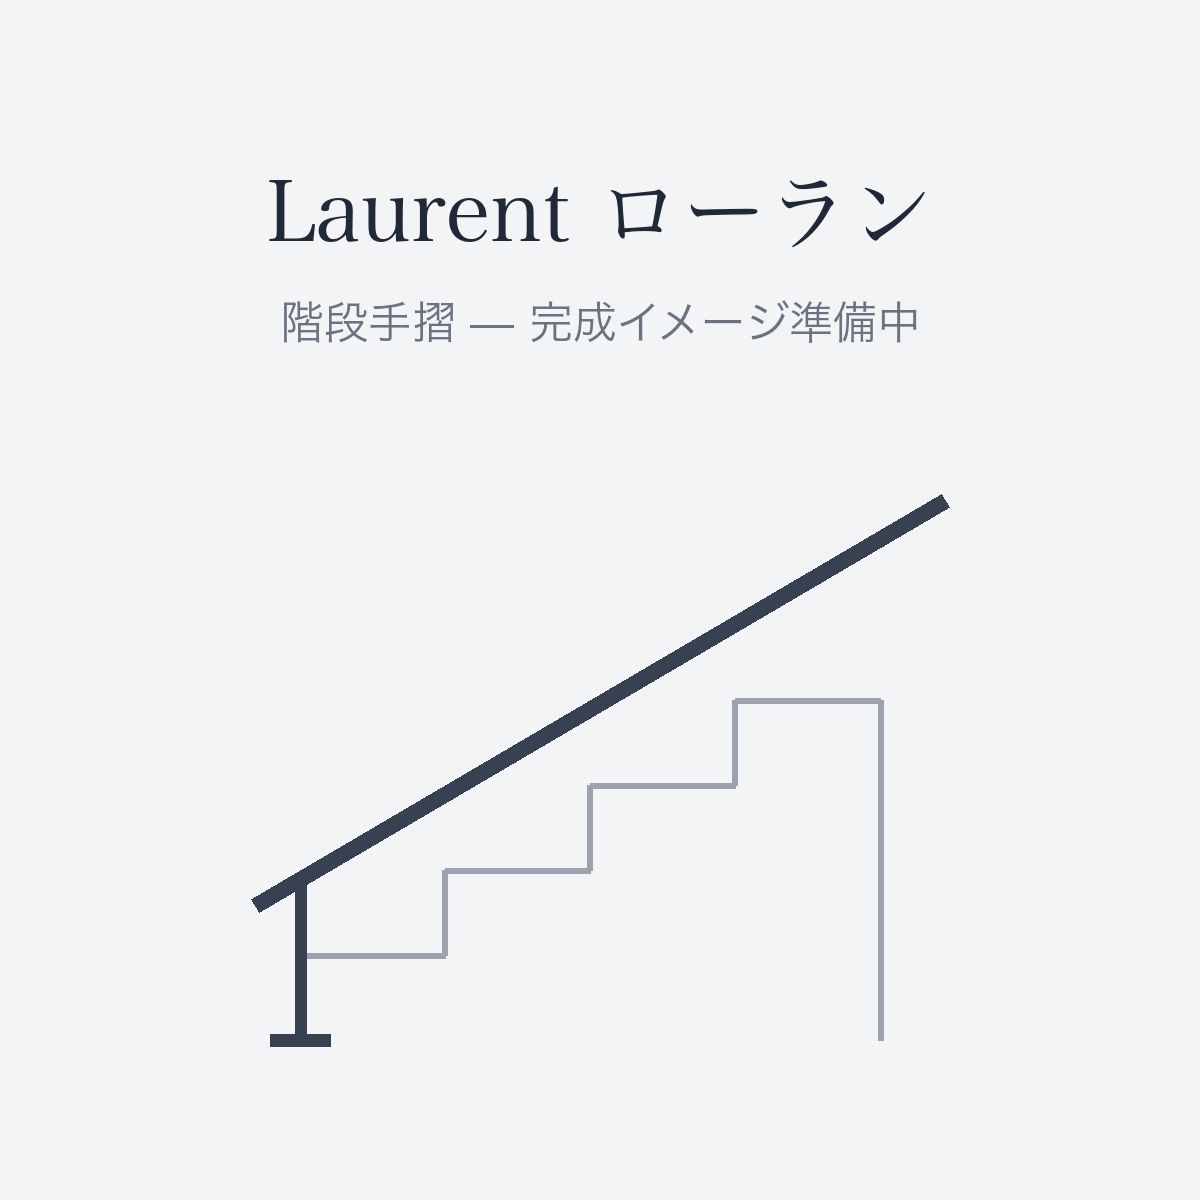
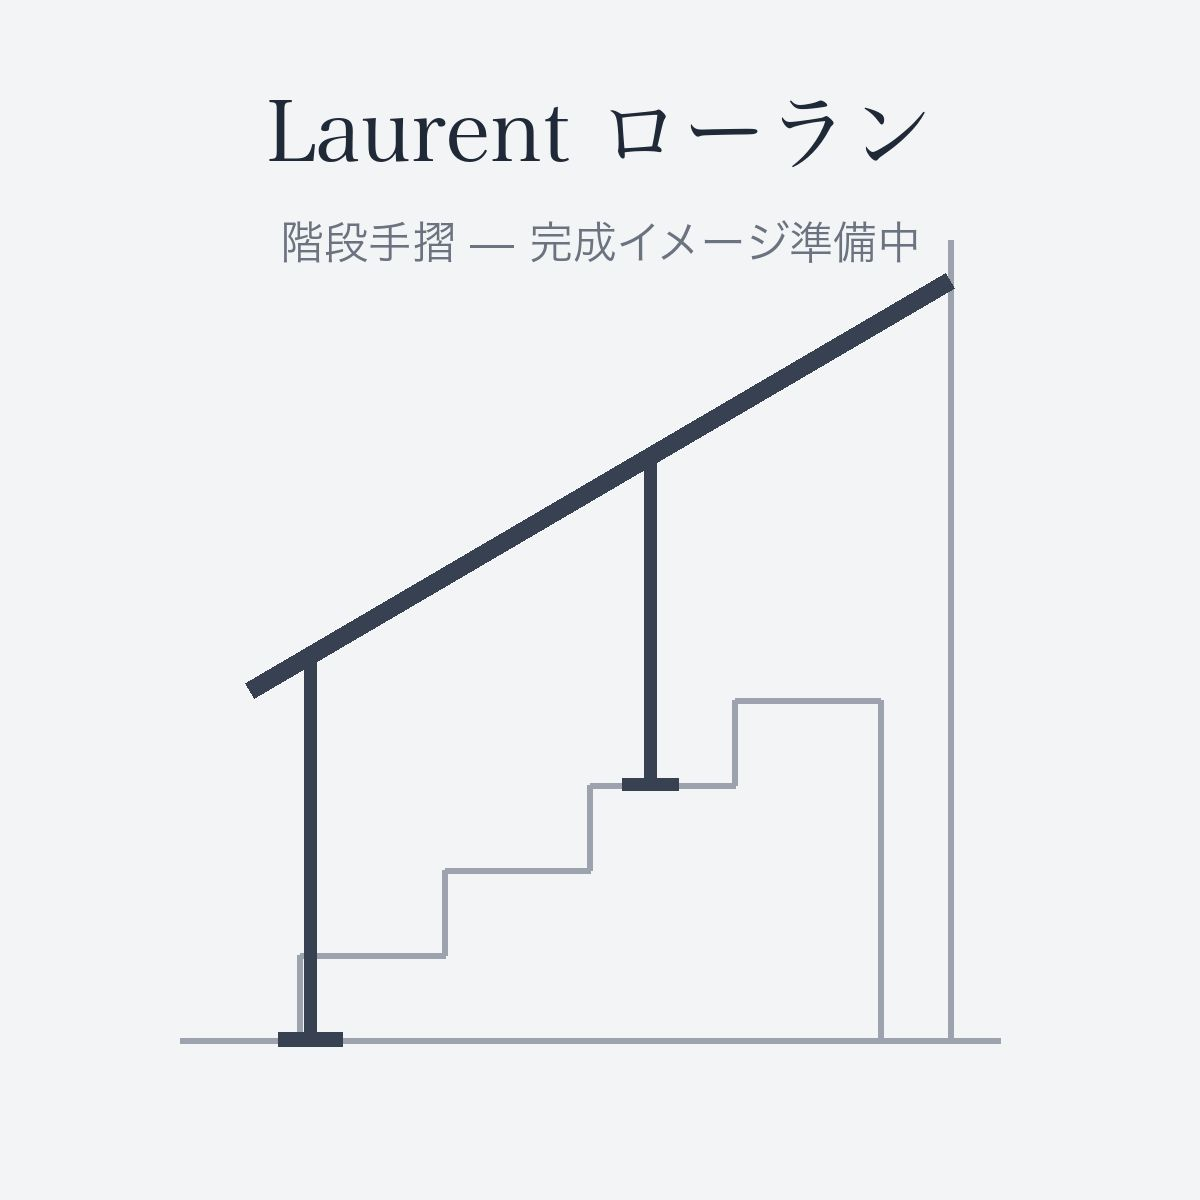
fix(laurent): 手すり高さ（段鼻から標準800mm）を反映・寸法図を実際の手すり形状に
- 寸法図: 笠木を段鼻から800mm相当の実高さで描画（縮尺: 蹴上げ200mm=40px）・中間柱追加・蹴込みは楽天参考の「拡大」インセット方式に変更
- 入力に「手すり高さ（mm・標準800）」を新設（600〜1,100・価格影響なし・注文仕様として記録）
- 仕様表に手すり高さ行を追加・プレースホルダー画像も実際の高さ感に修正

diff --git a/v0-design/components/stair-product-page.tsx b/v0-design/components/stair-product-page.tsx
@@ -25,6 +25,7 @@ import {
   clampTread,
   clampKekomi,
   clampLastTread,
+  clampRailHeight,
   type CrossbarMaterial,
   type StairColor,
 } from "@/lib/products/stair-pricing"
@@ -48,6 +49,7 @@ const SPECS = [
   { label: "仕上げ", value: "錆止め吹付塗装 + 2液型ウレタン塗装" },
   { label: "カラー", value: "マットブラック（標準）／マットホワイト（+15%）" },
   { label: "取付方式", value: "柱＝床固定・端部＝壁付け" },
+  { label: "手すり高さ", value: "標準800mm（段鼻から笠木上端まで・600〜1,100mmで変更可）" },
   { label: "横桟オプション", value: "0〜3本（6×25 フラットバー／13φ 丸鋼）" },
   { label: "対応段数", value: `${LAURENT.minSteps}〜${LAURENT.maxSteps}段（全長3.5mまで。超える場合は要問合せ）` },
 ]
@@ -67,70 +69,88 @@ const PRICE_GUIDE_STEPS = [3, 6, 10]
 
 /**
  * 入力寸法の位置を示す説明図（CAD 風・静的）。
- * 段鼻（ノーズ）のオーバーハングを実際の階段どおりに描き、
- * B踏み面=段鼻先端から次の蹴込み板まで / 蹴込み=段鼻下のへこみ を正しく示す
- * （2026-07-04 蠣﨑さん指摘・楽天同種商品の寸法図を参考）。
+ * - 笠木は段鼻から 800mm 相当の実際の手すり高さで描く（2026-07-04 蠣﨑さん指摘。
+ *   縮尺: 蹴上げ200mm=40px → 手すり高さ800mm=160px）
+ * - 蹴込みは楽天同種商品の寸法図にならい「拡大」インセットで説明する
  */
 function StairDimensionDiagram() {
   return (
-    <svg viewBox="0 0 560 335" role="img" aria-label="蹴上げ・踏み面・蹴込み・最終段の踏み面の説明図" className="w-full h-auto">
-      <rect x="0" y="0" width="560" height="335" fill="#ffffff" />
+    <svg viewBox="0 0 560 440" role="img" aria-label="蹴上げ・踏み面・蹴込み・最終段の踏み面・手すり高さの説明図" className="w-full h-auto">
+      <rect x="0" y="0" width="560" height="440" fill="#ffffff" />
       {/* 床・壁 */}
-      <line x1="20" y1="290" x2="540" y2="290" stroke="#9ca3af" strokeWidth="2" />
-      <line x1="470" y1="8" x2="470" y2="290" stroke="#9ca3af" strokeWidth="2" />
-      <text x="480" y="110" fontSize="13" fill="#6b7280">壁</text>
+      <line x1="15" y1="395" x2="545" y2="395" stroke="#9ca3af" strokeWidth="2" />
+      <line x1="460" y1="40" x2="460" y2="395" stroke="#9ca3af" strokeWidth="2" />
+      <text x="470" y="100" fontSize="13" fill="#6b7280">壁</text>
       {/* 階段（3段＋最上段の踏み面）— 段鼻が蹴込み分オーバーハングする実形状 */}
       <path
-        d="M 112 290 V 240 H 100 V 234 H 227 V 201 H 215 V 195 H 342 V 156 H 330 V 150 H 470 V 290 Z"
+        d="M 120 395 V 361 H 110 V 355 H 220 V 321 H 210 V 315 H 320 V 281 H 310 V 275 H 460 V 395 Z"
         fill="#f3f4f6"
         stroke="#374151"
         strokeWidth="2"
         strokeLinejoin="round"
       />
-      {/* 手摺（斜めレール・上端は壁付け）と柱（床固定） */}
-      <line x1="80" y1="168" x2="466" y2="18" stroke="#1f2937" strokeWidth="6" strokeLinecap="round" />
-      <line x1="95" y1="164" x2="95" y2="290" stroke="#1f2937" strokeWidth="5" />
-      <rect x="85" y="286" width="20" height="6" fill="#1f2937" />
-      <text x="14" y="196" fontSize="13" fill="#374151">柱</text>
-      <text x="14" y="212" fontSize="11" fill="#374151">（床固定）</text>
-      <text x="292" y="36" fontSize="13" fill="#374151">端部は壁付け</text>
-      {/* C 蹴上げ（1段の高さ）: 段の上面から次の段の上面まで */}
-      <line x1="196" y1="195" x2="196" y2="234" stroke="#b8860b" strokeWidth="1.5" />
-      <path d="M 196 195 l -4 8 h 8 Z" fill="#b8860b" />
-      <path d="M 196 234 l -4 -8 h 8 Z" fill="#b8860b" />
-      <line x1="150" y1="195" x2="215" y2="195" stroke="#b8860b" strokeWidth="0.75" strokeDasharray="3 3" />
-      <line x1="150" y1="234" x2="227" y2="234" stroke="#b8860b" strokeWidth="0.75" strokeDasharray="3 3" />
-      <text x="118" y="212" fontSize="14" fill="#92650a">C 蹴上げ</text>
-      <text x="112" y="228" fontSize="11" fill="#92650a">（1段の高さ）</text>
+      {/* 笠木（段鼻から手すり高さ分上を段鼻ラインに平行に走り、上端は壁付け） */}
+      <line x1="60" y1="215" x2="455" y2="57" stroke="#1f2937" strokeWidth="7" strokeLinecap="round" />
+      {/* 柱（床固定）と中間柱（段板固定） */}
+      <line x1="75" y1="209" x2="75" y2="395" stroke="#1f2937" strokeWidth="5" />
+      <rect x="65" y="391" width="20" height="7" fill="#1f2937" />
+      <line x1="275" y1="131" x2="275" y2="315" stroke="#1f2937" strokeWidth="5" />
+      <rect x="265" y="311" width="20" height="6" fill="#1f2937" />
+      <text x="40" y="300" fontSize="13" fill="#374151">柱</text>
+      <text x="14" y="318" fontSize="11" fill="#374151">（床固定）</text>
+      <text x="468" y="64" fontSize="13" fill="#374151">端部は壁付け</text>
+      {/* 手すり高さ: 段鼻から笠木上端まで（標準800mm） */}
+      <line x1="210" y1="315" x2="252" y2="315" stroke="#b8860b" strokeWidth="0.75" strokeDasharray="3 3" />
+      <line x1="240" y1="147" x2="240" y2="315" stroke="#b8860b" strokeWidth="1.5" />
+      <path d="M 240 147 l -4 9 h 8 Z" fill="#b8860b" />
+      <path d="M 240 315 l -4 -9 h 8 Z" fill="#b8860b" />
+      <text x="146" y="226" fontSize="14" fill="#92650a">手すり高さ</text>
+      <text x="100" y="244" fontSize="11" fill="#92650a">（段鼻から・標準800mm）</text>
       {/* B 踏み面: 段鼻の先端から次の蹴込み板（立ち上がり）まで */}
-      <line x1="215" y1="186" x2="342" y2="186" stroke="#b8860b" strokeWidth="1.5" />
-      <path d="M 215 186 l 8 -4 v 8 Z" fill="#b8860b" />
-      <path d="M 342 186 l -8 -4 v 8 Z" fill="#b8860b" />
-      <line x1="215" y1="181" x2="215" y2="195" stroke="#b8860b" strokeWidth="0.75" />
-      <line x1="342" y1="181" x2="342" y2="195" stroke="#b8860b" strokeWidth="0.75" />
-      <text x="248" y="179" fontSize="14" fill="#92650a">B 踏み面</text>
-      {/* 蹴込み: 段鼻の下のへこんでいる部分（段鼻先端 → 蹴込み板） */}
-      <line x1="215" y1="212" x2="227" y2="212" stroke="#b8860b" strokeWidth="1.5" />
-      <path d="M 215 212 l 5 -3 v 6 Z" fill="#b8860b" />
-      <path d="M 227 212 l -5 -3 v 6 Z" fill="#b8860b" />
-      <line x1="221" y1="215" x2="180" y2="262" stroke="#b8860b" strokeWidth="1" />
-      <text x="40" y="278" fontSize="14" fill="#92650a">蹴込み（段鼻の下のへこみ）</text>
+      <line x1="110" y1="345" x2="220" y2="345" stroke="#b8860b" strokeWidth="1.5" />
+      <path d="M 110 345 l 8 -4 v 8 Z" fill="#b8860b" />
+      <path d="M 220 345 l -8 -4 v 8 Z" fill="#b8860b" />
+      <line x1="110" y1="341" x2="110" y2="355" stroke="#b8860b" strokeWidth="0.75" />
+      <line x1="220" y1="341" x2="220" y2="355" stroke="#b8860b" strokeWidth="0.75" />
+      <text x="128" y="336" fontSize="14" fill="#92650a">B 踏み面</text>
+      {/* C 蹴上げ（1段の高さ）: 段の上面から次の段の上面まで */}
+      <line x1="300" y1="275" x2="300" y2="315" stroke="#b8860b" strokeWidth="1.5" />
+      <path d="M 300 275 l -4 8 h 8 Z" fill="#b8860b" />
+      <path d="M 300 315 l -4 -8 h 8 Z" fill="#b8860b" />
+      <line x1="300" y1="275" x2="314" y2="275" stroke="#b8860b" strokeWidth="0.75" strokeDasharray="3 3" />
+      <line x1="300" y1="315" x2="322" y2="315" stroke="#b8860b" strokeWidth="0.75" strokeDasharray="3 3" />
+      <text x="330" y="298" fontSize="14" fill="#92650a">C 蹴上げ</text>
+      <text x="330" y="314" fontSize="11" fill="#92650a">（1段の高さ）</text>
       {/* D 最終段の踏み面: 最上段の段鼻から壁まで */}
-      <line x1="330" y1="140" x2="470" y2="140" stroke="#b8860b" strokeWidth="1.5" />
-      <path d="M 330 140 l 8 -4 v 8 Z" fill="#b8860b" />
-      <path d="M 470 140 l -8 -4 v 8 Z" fill="#b8860b" />
-      <line x1="330" y1="136" x2="330" y2="150" stroke="#b8860b" strokeWidth="0.75" />
-      <text x="336" y="132" fontSize="14" fill="#92650a">D 最終段の踏み面（壁まで）</text>
+      <line x1="310" y1="263" x2="460" y2="263" stroke="#b8860b" strokeWidth="1.5" />
+      <path d="M 310 263 l 8 -4 v 8 Z" fill="#b8860b" />
+      <path d="M 460 263 l -8 -4 v 8 Z" fill="#b8860b" />
+      <line x1="310" y1="259" x2="310" y2="277" stroke="#b8860b" strokeWidth="0.75" />
+      <text x="288" y="254" fontSize="13" fill="#92650a">D 最終段の踏み面（壁まで）</text>
+      {/* 蹴込みの拡大インセット（段鼻の下のへこみ） */}
+      <circle cx="215" cy="318" r="16" fill="none" stroke="#b8860b" strokeWidth="1.2" strokeDasharray="4 3" />
+      <circle cx="100" cy="72" r="58" fill="none" stroke="#b8860b" strokeWidth="1.2" strokeDasharray="4 3" />
+      <text x="24" y="22" fontSize="13" fill="#92650a">拡大</text>
+      <line x1="52" y1="48" x2="158" y2="48" stroke="#374151" strokeWidth="3" />
+      <line x1="52" y1="48" x2="52" y2="64" stroke="#374151" strokeWidth="2" />
+      <line x1="52" y1="64" x2="86" y2="64" stroke="#374151" strokeWidth="2" />
+      <line x1="86" y1="64" x2="86" y2="116" stroke="#374151" strokeWidth="2" />
+      <line x1="52" y1="64" x2="52" y2="96" stroke="#b8860b" strokeWidth="0.75" strokeDasharray="3 3" />
+      <line x1="52" y1="90" x2="86" y2="90" stroke="#b8860b" strokeWidth="1.5" />
+      <path d="M 52 90 l 7 -4 v 8 Z" fill="#b8860b" />
+      <path d="M 86 90 l -7 -4 v 8 Z" fill="#b8860b" />
+      <text x="26" y="146" fontSize="12" fill="#92650a">蹴込み（段鼻の下のへこみ）</text>
+      {/* 手摺全長（笠木に平行・上側）— ラベルは水平＋引出線 */}
+      <line x1="85" y1="190" x2="450" y2="44" stroke="#b8860b" strokeWidth="1.5" strokeDasharray="6 4" />
+      <text x="196" y="28" fontSize="14" fill="#92650a">手摺全長（自動計算）</text>
+      <line x1="265" y1="34" x2="288" y2="104" stroke="#b8860b" strokeWidth="1" />
       {/* A 設置範囲の総幅 */}
-      <line x1="100" y1="308" x2="470" y2="308" stroke="#b8860b" strokeWidth="1.5" />
-      <path d="M 100 308 l 8 -4 v 8 Z" fill="#b8860b" />
-      <path d="M 470 308 l -8 -4 v 8 Z" fill="#b8860b" />
-      <line x1="100" y1="292" x2="100" y2="312" stroke="#b8860b" strokeWidth="0.75" />
-      <line x1="470" y1="292" x2="470" y2="312" stroke="#b8860b" strokeWidth="0.75" />
-      <text x="150" y="328" fontSize="13" fill="#92650a">A 設置範囲の総幅 ＝ (B−蹴込み)×(段数−1)＋D（自動計算）</text>
-      {/* 手摺全長 */}
-      <line x1="120" y1="180" x2="455" y2="50" stroke="#b8860b" strokeWidth="1.5" strokeDasharray="6 4" />
-      <text x="205" y="136" fontSize="14" fill="#92650a" transform="rotate(-21 205 136)">手摺全長（自動計算）</text>
+      <line x1="110" y1="416" x2="460" y2="416" stroke="#b8860b" strokeWidth="1.5" />
+      <path d="M 110 416 l 8 -4 v 8 Z" fill="#b8860b" />
+      <path d="M 460 416 l -8 -4 v 8 Z" fill="#b8860b" />
+      <line x1="110" y1="398" x2="110" y2="420" stroke="#b8860b" strokeWidth="0.75" />
+      <line x1="460" y1="398" x2="460" y2="420" stroke="#b8860b" strokeWidth="0.75" />
+      <text x="100" y="436" fontSize="12" fill="#92650a">A 設置範囲の総幅（自動計算）＝(B−蹴込み)×(段数−1)＋D</text>
     </svg>
   )
 }
@@ -142,6 +162,7 @@ export function StairProductPage() {
   const [treadInput, setTreadInput] = useState(String(LAURENT.defaults.treadMm))
   const [kekomiInput, setKekomiInput] = useState(String(LAURENT.defaults.kekomiMm))
   const [lastTreadInput, setLastTreadInput] = useState(String(LAURENT.defaults.lastTreadMm))
+  const [railHeightInput, setRailHeightInput] = useState(String(LAURENT.defaults.railHeightMm))
   // 段ごとの蹴上げ（個別調整用）。一括値の変更・段数変更で作り直す。
   const [riserInputs, setRiserInputs] = useState<string[]>(Array(4).fill(String(LAURENT.defaults.riserMm)))
 
@@ -161,6 +182,7 @@ export function StairProductPage() {
   const treadMm = clampTread(Number(treadInput))
   const kekomiMm = clampKekomi(Number(kekomiInput))
   const lastTreadMm = clampLastTread(Number(lastTreadInput))
+  const railHeightMm = clampRailHeight(Number(railHeightInput))
   const risersMm = riserInputs.map((s) => clampRiser(Number(s)))
 
   const handleStepsChange = (raw: number) => {
@@ -214,6 +236,7 @@ export function StairProductPage() {
     treadMm,
     kekomiMm,
     lastTreadMm,
+    railHeightMm,
     crossbarCount,
     crossbarMaterial,
     color,
@@ -494,6 +517,17 @@ export function StairProductPage() {
                         className={inputClass}
                       />
                       <p className="mt-1 text-[12px] text-muted-foreground">最上段の段鼻から壁までの寸法</p>
+                    </div>
+                    <div>
+                      <label className="mb-1 block text-[13px] text-muted-foreground">手すり高さ（mm・標準800）</label>
+                      <input
+                        type="number"
+                        value={railHeightInput}
+                        onChange={(e) => setRailHeightInput(e.target.value)}
+                        onBlur={() => setRailHeightInput(String(railHeightMm))}
+                        className={inputClass}
+                      />
+                      <p className="mt-1 text-[12px] text-muted-foreground">段鼻から笠木の上端まで（価格は変わりません）</p>
                     </div>
                   </div>
 

diff --git a/v0-design/lib/products/stair-pricing.ts b/v0-design/lib/products/stair-pricing.ts
@@ -41,12 +41,15 @@ export const LAURENT = {
   // 手摺の斜め全長がこれを超えたら自動見積もりを止めて「要問合せ」に切り替える
   // （2026-07-04 蠣﨑さん確定: 指示書の 4m 基準を配送実態に合わせ 3.5m に前倒し）。
   maxShipMm: 3500,
-  defaults: { riserMm: 200, treadMm: 240, kekomiMm: 20, lastTreadMm: 240 },
+  // 手すり高さ＝段鼻から笠木上端まで。標準 800mm（2026-07-04 蠣﨑さん指示）。
+  // 価格には影響しない製作仕様として注文に記録する。
+  defaults: { riserMm: 200, treadMm: 240, kekomiMm: 20, lastTreadMm: 240, railHeightMm: 800 },
   limits: {
     riser: { min: 50, max: 500 }, // 蹴上げ (mm)
     tread: { min: 100, max: 500 }, // 踏み面 (mm)
     kekomi: { min: 0, max: 100 }, // 蹴込み (mm)
     lastTread: { min: 0, max: 1500 }, // 最終段の踏み面＝壁までの寸法 (mm)
+    railHeight: { min: 600, max: 1100 }, // 手すり高さ (mm)
   },
 } as const
 
@@ -74,6 +77,11 @@ export function clampLastTread(n: number): number {
   const raw = Number(n)
   const v = Number.isFinite(raw) ? Math.round(raw) : LAURENT.defaults.lastTreadMm
   return Math.max(LAURENT.limits.lastTread.min, Math.min(LAURENT.limits.lastTread.max, v))
+}
+
+export function clampRailHeight(n: number): number {
+  const v = Math.round(Number(n) || LAURENT.defaults.railHeightMm)
+  return Math.max(LAURENT.limits.railHeight.min, Math.min(LAURENT.limits.railHeight.max, v))
 }
 
 /** 柱の合計本数（1段目を1本目と換算し 5 段ごとに1本）。3〜5段=1本, 6〜10段=2本, ... */
@@ -169,6 +177,7 @@ export interface StairOrderParsed {
   treadMm: number
   kekomiMm: number
   lastTreadMm: number
+  railHeightMm: number
   crossbarCount: number
   crossbarMaterial: CrossbarMaterial
   color: StairColor
@@ -196,6 +205,7 @@ export function parseStairOrderBody(body: Record<string, unknown>): StairOrderPa
   const treadMm = clampTread(Number(body?.treadMm))
   const kekomiMm = clampKekomi(Number(body?.kekomiMm))
   const lastTreadMm = clampLastTread(Number(body?.lastTreadMm))
+  const railHeightMm = clampRailHeight(Number(body?.railHeightMm))
 
   // 段ごとの蹴上げ個別指定（省略時は一括値で埋める）
   const risersMm: number[] =
@@ -230,7 +240,7 @@ export function parseStairOrderBody(body: Record<string, unknown>): StairOrderPa
   const specParts = [
     `${steps}段・柱${price.postCount}本`,
     `${riserLabel} / 踏み面${treadMm}mm / 蹴込み${kekomiMm}mm / 最終段の踏み面${lastTreadMm}mm`,
-    `高さ${geometry.totalRiseMm}mm × 総幅${geometry.runMm}mm`,
+    `手すり高さ${railHeightMm}mm（段鼻から） / 高さ${geometry.totalRiseMm}mm × 総幅${geometry.runMm}mm`,
     crossbarLabel,
     colorLabel,
   ]
@@ -246,6 +256,7 @@ export function parseStairOrderBody(body: Record<string, unknown>): StairOrderPa
     tread_mm: String(treadMm),
     kekomi_mm: String(kekomiMm),
     last_tread_mm: String(lastTreadMm),
+    rail_height_mm: String(railHeightMm),
     crossbar_count: String(crossbarCount),
     ...(crossbarCount > 0 ? { crossbar_material: LAURENT.crossbar[crossbarMaterial].label } : {}),
     color: colorLabel,
@@ -265,6 +276,7 @@ export function parseStairOrderBody(body: Record<string, unknown>): StairOrderPa
       treadMm,
       kekomiMm,
       lastTreadMm,
+      railHeightMm,
       crossbarCount,
       crossbarMaterial,
       color,
